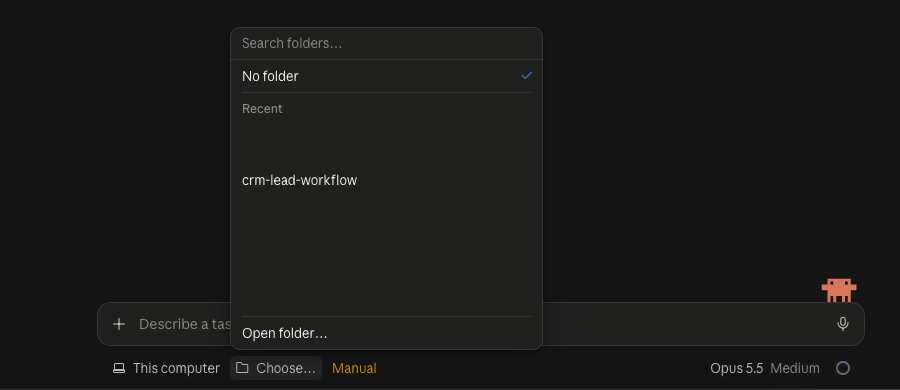
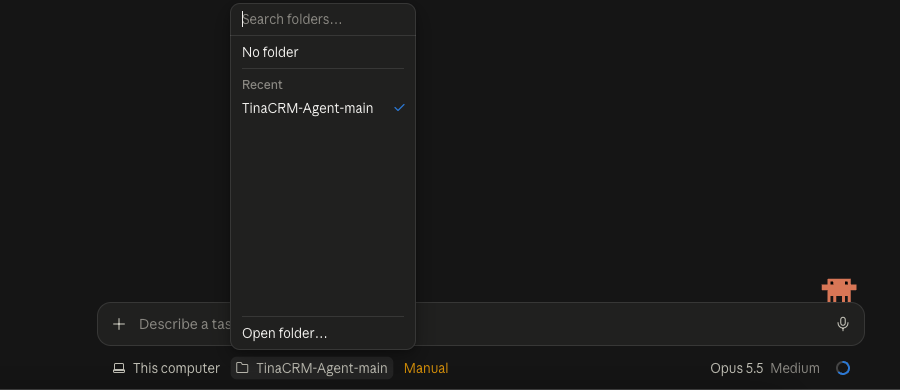
docs: dark GitHub screenshot, recapture Claude Desktop shots with TinaCRM-Agent-main folder

diff --git a/src/lib/visuals.ts b/src/lib/visuals.ts
@@ -13,12 +13,12 @@ export type Visual = {
 };
 
 export const visuals: Record<string, Visual[]> = {
-  "tai-workflow:download": [{ src: "/illustrations/github-download.png", alt: "Trang GitHub TinaCRM-Agent với menu Code đang mở và lựa chọn Download ZIP ở cuối menu", caption: "", kind: "Ảnh chụp thực tế", source: "https://github.com/Tinasoft-Viet-Nam/TinaCRM-Agent", markers: [{ x: 64.4, y: 32.1, w: 8.9, h: 4.3, label: "1", text: "Code", badge: "above" }, { x: 42.3, y: 65.7, w: 30.4, h: 4.3, label: "2", badge: "left", text: "Download ZIP" }] }],
+  "tai-workflow:download": [{ src: "/illustrations/github-download.png", srcLight: "/illustrations/github-download-light.png", alt: "Trang GitHub TinaCRM-Agent với menu Code đang mở và lựa chọn Download ZIP ở cuối menu", caption: "", kind: "Ảnh chụp thực tế", source: "https://github.com/Tinasoft-Viet-Nam/TinaCRM-Agent", markers: [{ x: 64.4, y: 32.1, w: 8.9, h: 4.3, label: "1", text: "Code", badge: "above" }, { x: 42.3, y: 65.7, w: 30.4, h: 4.3, label: "2", badge: "left", text: "Download ZIP" }] }],
   "dat-tai-lieu:where": [{ src: "/illustrations/folder-map.svg", alt: "Sơ đồ thư mục workflow: inputs gồm 01_company_info cho hồ sơ công ty và 02_marketing_materials cho sản phẩm, outputs chứa kết quả", caption: "", kind: "Sơ đồ minh họa" }],
-  "mo-claude-code:overview": [{ src: "/illustrations/claude-code-folder-chosen-full.png", srcLight: "/illustrations/claude-code-folder-chosen-full-light.png", alt: "Toàn bộ cửa sổ Claude Desktop ở tab Code: biểu tượng Code ở góc trên bên trái, thanh lựa chọn nằm ngay dưới ô nhập ở cuối cửa sổ", caption: "", kind: "Ảnh chụp thực tế", markers: [{ x: 10.3, y: 1.1, w: 1.9, h: 2.8, label: "1", text: "Tab Code (biểu tượng </>), góc trên bên trái", badge: "right" }, { x: 36.6, y: 96.3, w: 17.8, h: 2.9, label: "2", text: "Thanh dưới ô nhập: thư mục và quyền chọn ở đây", badge: "above" }] }],
-  "mo-claude-code:folder": [{ src: "/illustrations/claude-code-open-folder-zoom.png", srcLight: "/illustrations/claude-code-open-folder-zoom-light.png", alt: "Phần dưới cửa sổ Claude Desktop: nút Choose… dưới ô nhập đang mở menu thư mục, Open folder… ở cuối menu", caption: "", kind: "Ảnh chụp thực tế", markers: [{ x: 26, y: 91.5, w: 9.5, h: 6.2, label: "1", text: "Choose…", badge: "below" }, { x: 26, y: 82.3, w: 33.6, h: 6.4, label: "2", text: "Open folder… → chọn thư mục workflow", badge: "right" }] }],
-  "mo-claude-code:permissions": [{ src: "/illustrations/claude-code-permissions-zoom.png", srcLight: "/illustrations/claude-code-permissions-zoom-light.png", alt: "Phần dưới cửa sổ Claude Desktop: menu Permissions mở từ nút Manual, gồm Auto, Manual, Accept edits, Plan, Bypass permissions", caption: "", kind: "Ảnh chụp thực tế", markers: [{ x: 42.5, y: 91.5, w: 6.3, h: 6.2, label: "1", text: "Bấm vào đây để mở menu quyền", badge: "below" }, { x: 42.7, y: 43.6, w: 34.8, h: 9.6, label: "2", text: "Manual: nên chọn", badge: "right" }, { x: 42.7, y: 75.1, w: 34.8, h: 13.4, label: "3", text: "Bypass permissions: không dùng", badge: "right" }] }],
-  "hang-ngay:parallel": [{ src: "/illustrations/claude-code-folder-chosen-full.png", srcLight: "/illustrations/claude-code-folder-chosen-full-light.png", alt: "Cửa sổ Claude Desktop ở tab Code: nút + New ở thanh bên trái, thư mục đang chọn dưới ô nhập", caption: "", kind: "Ảnh chụp thực tế", markers: [{ x: 0.4, y: 9.1, w: 11.6, h: 2.7, label: "1", text: "+ New: mở phiên mới", badge: "right" }, { x: 43.4, y: 96.3, w: 7.3, h: 2.9, label: "2", text: "Thư mục của phiên", badge: "above" }] }],
+  "mo-claude-code:overview": [{ src: "/illustrations/claude-code-folder-chosen-full.png", srcLight: "/illustrations/claude-code-folder-chosen-full-light.png", alt: "Toàn bộ cửa sổ Claude Desktop ở tab Code: biểu tượng Code ở góc trên bên trái, thanh lựa chọn nằm ngay dưới ô nhập ở cuối cửa sổ", caption: "", kind: "Ảnh chụp thực tế", markers: [{ x: 10.3, y: 1.1, w: 1.9, h: 2.8, label: "1", text: "Tab Code (biểu tượng </>), góc trên bên trái", badge: "right" }, { x: 36.6, y: 96.3, w: 18.5, h: 2.9, label: "2", text: "Thanh dưới ô nhập: thư mục và quyền chọn ở đây", badge: "above" }] }],
+  "mo-claude-code:folder": [{ src: "/illustrations/claude-code-open-folder-zoom.png", srcLight: "/illustrations/claude-code-open-folder-zoom-light.png", alt: "Phần dưới cửa sổ Claude Desktop: nút thư mục dưới ô nhập đang mở menu thư mục, Open folder… ở cuối menu", caption: "", kind: "Ảnh chụp thực tế", markers: [{ x: 25.8, y: 91.5, w: 18, h: 6.2, label: "1", text: "Nút thư mục (lần đầu ghi Choose…)", badge: "below" }, { x: 25.8, y: 82.3, w: 20.6, h: 6.4, label: "2", text: "Open folder… → chọn thư mục workflow", badge: "right" }] }],
+  "mo-claude-code:permissions": [{ src: "/illustrations/claude-code-permissions-zoom.png", srcLight: "/illustrations/claude-code-permissions-zoom-light.png", alt: "Phần dưới cửa sổ Claude Desktop: menu Permissions mở từ nút Manual, gồm Auto, Manual, Accept edits, Plan, Bypass permissions", caption: "", kind: "Ảnh chụp thực tế", markers: [{ x: 44.4, y: 91.5, w: 6.4, h: 6.2, label: "1", text: "Bấm vào đây để mở menu quyền", badge: "below" }, { x: 44.3, y: 43.6, w: 35.6, h: 9.6, label: "2", text: "Manual: nên chọn", badge: "right" }, { x: 44.3, y: 75.1, w: 35.6, h: 13.4, label: "3", text: "Bypass permissions: không dùng", badge: "right" }] }],
+  "hang-ngay:parallel": [{ src: "/illustrations/claude-code-folder-chosen-full.png", srcLight: "/illustrations/claude-code-folder-chosen-full-light.png", alt: "Cửa sổ Claude Desktop ở tab Code: nút + New ở thanh bên trái, thư mục đang chọn dưới ô nhập", caption: "", kind: "Ảnh chụp thực tế", markers: [{ x: 0.4, y: 9.1, w: 11.6, h: 2.7, label: "1", text: "+ New: mở phiên mới", badge: "right" }, { x: 43.4, y: 96.3, w: 8.3, h: 2.9, label: "2", text: "Thư mục của phiên", badge: "above" }] }],
   "tro-giup:usage": [{ src: "/illustrations/claude-account-menu.png", srcLight: "/illustrations/claude-account-menu-light.png", alt: "Góc dưới bên trái Claude Desktop: menu tài khoản đang mở, có mục Usage", caption: "", kind: "Ảnh chụp thực tế", markers: [{ x: 0.8, y: 94.2, w: 21.5, h: 4.6, label: "1", text: "Bấm tên tài khoản", badge: "right" }, { x: 1.5, y: 57.1, w: 25.8, h: 4, label: "2", text: "Usage", badge: "right" }] }],
   "ket-noi-mcp:apikey-open": [{ src: "/illustrations/tinacrm-api-keys.png", srcLight: "/illustrations/tinacrm-api-keys-light.png", markersLight: [{ x: 0.4, y: 48.8, w: 10.9, h: 3.2, label: "1", text: "Settings → MCP & APIs", badge: "right" }, { x: 53.4, y: 5.9, w: 3, h: 4.1, label: "2", text: "Tab API", badge: "below" }, { x: 67.6, y: 49.8, w: 6.8, h: 2.9, label: "3", text: "Create API key", badge: "below" }], alt: "TinaCRM Settings, trang MCP & APIs ở tab API, có nút Create API key", caption: "", kind: "Ảnh chụp thực tế", markers: [{ x: 0.4, y: 48.6, w: 13.1, h: 3, label: "1", text: "Settings → MCP & APIs", badge: "right" }, { x: 53.4, y: 6.2, w: 3.1, h: 3.7, label: "2", text: "Tab API", badge: "below" }, { x: 67.6, y: 43.9, w: 6.9, h: 3.2, label: "3", text: "Create API key", badge: "below" }] }],
   "ket-noi-mcp:apikey-form": [{ src: "/illustrations/tinacrm-api-key-form.png", srcLight: "/illustrations/tinacrm-api-key-form-light.png", alt: "Biểu mẫu New key của TinaCRM gồm Name, Role, Expiration Date và nút Save", caption: "", kind: "Ảnh chụp thực tế", markers: [{ x: 37.3, y: 14.8, w: 37.2, h: 3.6, label: "1", text: "Name: đặt tên dễ nhận ra, ví dụ Claude workflow", badge: "right" }, { x: 37.3, y: 28.6, w: 37.2, h: 3.6, label: "2", text: "Role: quyền của khóa", badge: "right" }, { x: 37.3, y: 42.6, w: 37.2, h: 3.6, label: "3", text: "Expiration Date: ngày hết hạn", badge: "right" }, { x: 95.7, y: 1.4, w: 3.5, h: 2.7, label: "4", text: "Save", badge: "below" }] }],

diff --git a/public/illustrations/README.md b/public/illustrations/README.md
@@ -3,18 +3,18 @@
 
 
 
-- `github-download.png`: ảnh chụp trang kho GitHub Tinasoft-Viet-Nam/TinaCRM-Agent (menu Code mở), chụp 2026-10-26 bằng Playwright, không phải giao diện Claude.
+- `github-download.png`: ảnh chụp trang kho GitHub Tinasoft-Viet-Nam/TinaCRM-Agent (menu Code mở), chụp 2026-10-26 bằng Playwright ở giao diện tối; `github-download-light.png` là bản giao diện sáng cùng khung. Đã làm mờ avatar và tên tài khoản, không phải giao diện Claude.
 - `folder-map.svg`, `copy-files.svg`, `unzip.svg`, `email-flow.svg`: sơ đồ thao tác/nghiệp vụ, không phải screenshot hệ điều hành hay ứng dụng.
 - `code-local.svg`: sơ đồ thao tác Code → Local → Select folder, đối chiếu tài liệu https://code.claude.com/docs/en/desktop-quickstart. Không phải ảnh chụp Claude Code.
 - Các ảnh Chat Projects/Add to project hoặc trang download không được dùng làm hình đối chiếu giao diện Code.
 
-- `claude-code-folder-chosen-full.png`: toàn bộ cửa sổ Claude Desktop (Mac) tab Code sau khi chọn thư mục, chụp 2026-10-19. Đã xóa tên tài khoản góc dưới trái.
-- `claude-code-open-folder-zoom.png`: phần dưới cửa sổ, menu chọn thư mục mở từ nút Choose…, chụp 2026-10-19. Đã xóa tên các dự án khác trong mục Recent, chỉ giữ crm-lead-workflow.
-- `claude-code-permissions-zoom.png`: phần dưới cửa sổ, menu Permissions mở từ nút Manual với 5 chế độ, chụp 2026-10-19.
+- `claude-code-folder-chosen-full.png`: toàn bộ cửa sổ Claude Desktop (Mac) tab Code sau khi chọn thư mục TinaCRM-Agent-main (giải nén từ ZIP repo Tinasoft-Viet-Nam/TinaCRM-Agent), quyền Manual, chụp 2026-10-26. Đã xóa tên tài khoản góc dưới trái.
+- `claude-code-open-folder-zoom.png`: phần dưới cửa sổ, menu chọn thư mục mở từ nút thư mục (lần đầu ghi Choose…), chụp 2026-10-26. Đã xóa tên các dự án khác trong mục Recent, chỉ giữ TinaCRM-Agent-main.
+- `claude-code-permissions-zoom.png`: phần dưới cửa sổ, menu Permissions mở từ nút Manual với 5 chế độ, chụp 2026-10-26.
 - `claude-account-menu.png`: góc dưới trái Claude Desktop, menu tài khoản có Usage, chụp 2026-10-19. Đã xóa email và tên tài khoản.
 - `tinacrm-api-keys.png`, `tinacrm-api-key-form.png`, `tinacrm-api-key-created.png`: TinaCRM Settings → MCP & APIs → API, tạo khóa thử, chụp 2026-10-19 trên Edge. Đã cắt thanh trình duyệt (địa chỉ workspace) và che hoàn toàn chuỗi khóa.
 - `tinacrm-key-dialog.png`: hộp thoại do scripts/tinacrm_save_key.sh bật lên, chụp 2026-10-19.
-- Bản giao diện sáng `*-light.png` của 4 ảnh Claude Desktop trên (`claude-code-folder-chosen-full-light.png`, `claude-code-open-folder-zoom-light.png`, `claude-code-permissions-zoom-light.png`, `claude-account-menu-light.png`): chụp 2026-10-19, cùng vùng cắt với bản tối để dùng chung vị trí đánh dấu. Trang tự đổi ảnh theo giao diện sáng/tối (`srcLight` trong `src/lib/visuals.ts`). Đã xóa tên tài khoản, email và các dự án khác trong mục Recent.
+- Bản giao diện sáng `*-light.png` của 4 ảnh Claude Desktop trên (`claude-code-folder-chosen-full-light.png`, `claude-code-open-folder-zoom-light.png`, `claude-code-permissions-zoom-light.png`, `claude-account-menu-light.png`): 3 ảnh claude-code chụp lại 2026-10-26 (ảnh menu tài khoản chụp 2026-10-19), cùng vùng cắt với bản tối để dùng chung vị trí đánh dấu. Trang tự đổi ảnh theo giao diện sáng/tối (`srcLight` trong `src/lib/visuals.ts`). Đã xóa tên tài khoản, email và các dự án khác trong mục Recent.
 - `tinacrm-api-keys-light.png`, `tinacrm-api-key-form-light.png`: bản giao diện sáng của hai ảnh TinaCRM, chụp 2026-10-19 trên Edge, cùng vùng cắt (đã bỏ thanh trình duyệt). Đã che dòng khóa `test` trong danh sách. Ảnh danh sách khóa có bố cục khác bản tối nên dùng vị trí đánh dấu riêng (`markersLight`).
 - `claude-connector-card.png`, `claude-connector-card-light.png`: thẻ Suggested connectors (Gmail, nút Connect) Claude hiện trong khung chat tab Code, chụp 2026-10-21, bản tối và sáng cùng vùng cắt. Không có thông tin tài khoản.
 - `tinacrm-api-key-created-light.png`: bản giao diện sáng của màn hình khóa vừa tạo, chụp 2026-10-19 bằng khóa thử `docs-screenshot` (hạn 30 ngày) đã xóa ngay sau khi chụp. Chuỗi khóa được che trước khi lưu ảnh.
